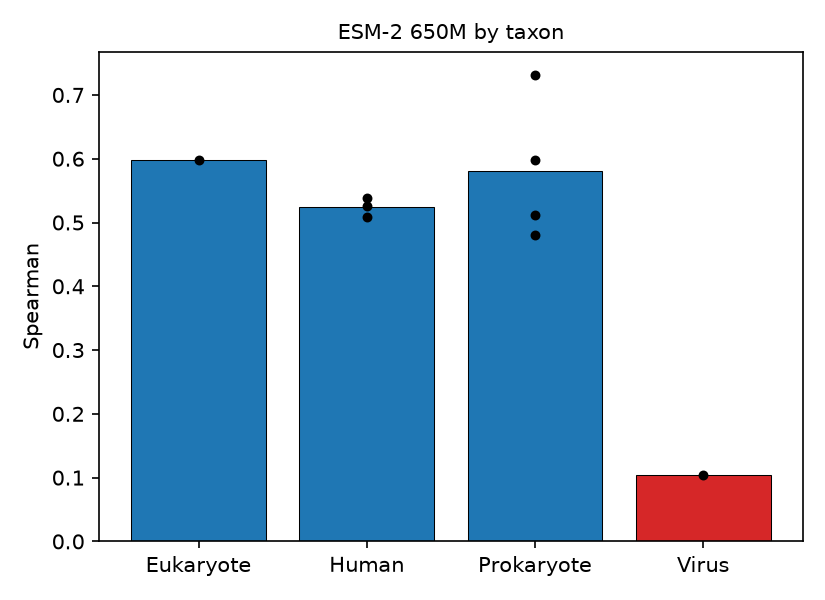
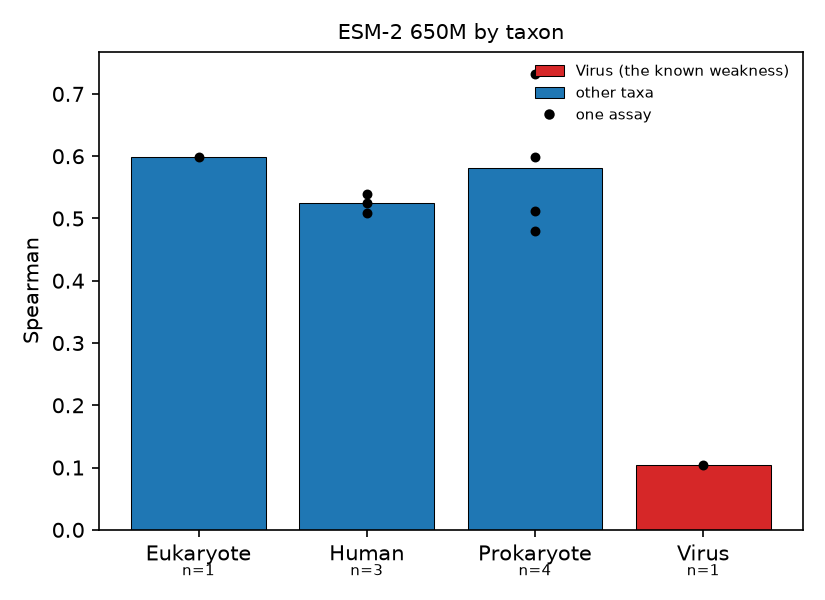
Explain the colours and the n on two benchmark figures
Vision review of all figures. Both charts used colour to carry meaning that
nothing on the page defined:

* by_taxon: the Virus bar was red with no legend, and the per-taxon n was
  invisible even though two of the four bars are a single assay - so a reader
  could not tell that 'Human' and 'Eukaryote' were one measurement each. Virus is
  now labelled as the known weakness it is, and n is printed under every bar.
* method_comparison: the red horizontal rule was each method's mean and the blue
  dots flagged ESM-2, neither explained. Both are in a legend now.

Colours unchanged; only the labels added. Figures regenerated.

diff --git a/scripts/make_figures.py b/scripts/make_figures.py
@@ -30,6 +30,7 @@ import matplotlib.pyplot as plt
 import numpy as np
 import pandas as pd
 from matplotlib.lines import Line2D
+from matplotlib.patches import Patch
 
 ROOT = Path(__file__).resolve().parent.parent
 sys.path.insert(0, str(ROOT / "src"))
@@ -64,6 +65,15 @@ def fig_method_comparison(df):
                    vals, s=26, alpha=0.75, edgecolor="black", linewidth=0.4,
                    color="C0" if method == "esm2" else "C7")
         ax.hlines(vals.mean(), i - 0.3, i + 0.3, color="C3", lw=2, zorder=5)
+
+    # Legend (2026-11-15): the red horizontal rules were the per-method mean and
+    # the blue dots flagged esm2, but neither was explained on the figure.
+    handles = [Line2D([], [], marker="o", ls="", color="C0", mec="black", mew=0.4,
+                      ms=6, label="ESM-2 650M"),
+               Line2D([], [], marker="o", ls="", color="C7", mec="black", mew=0.4,
+                      ms=6, label="baseline methods"),
+               Line2D([], [], color="C3", lw=2, label="method mean")]
+    ax.legend(handles=handles, fontsize=7.5, frameon=False, loc="upper right")
 
     ax.set_xticks(range(len(order)))
     ax.set_xticklabels(order, rotation=30, ha="right")
@@ -141,17 +151,26 @@ def fig_landscape(assay_id="IF1_ECOLI_Kelsic_2016"):
             obs[order[s.mut], s.idx] = score
 
     fig, axes = plt.subplots(2, 1, figsize=(13, 6), sharex=True)
-    for ax, mat, title, cmap in [
+    # Label honesty (2026-11-15): both colourbars were unlabelled and the y axis
+    # had no title, so a reader could not tell what the colour scale measured or
+    # that the rows are amino acids. The two panels have different units - a
+    # log-odds score in one, a fitness measurement in the other - so one label
+    # cannot serve both.
+    for ax, mat, title, cmap, cbar_label in [
             (axes[0], pred, "ESM-2 650M predicted effect (log-odds vs wildtype)",
-             "RdBu"),
-            (axes[1], obs, "Measured fitness (Kelsic 2016)", "RdBu")]:
+             "RdBu", "log-odds vs the wild-type residue"),
+            (axes[1], obs, "Measured fitness (Kelsic 2016)", "RdBu",
+             "measured DMS fitness score")]:
         v = np.nanpercentile(np.abs(mat), 98)
         im = ax.imshow(mat, aspect="auto", cmap=cmap, vmin=-v, vmax=v,
                        interpolation="nearest")
         ax.set_yticks(range(20))
         ax.set_yticklabels(aa_order, fontsize=6)
+        ax.set_ylabel("substituted amino acid", fontsize=8)
         ax.set_title(title, fontsize=9)
-        fig.colorbar(im, ax=ax, fraction=0.015, pad=0.01)
+        cb = fig.colorbar(im, ax=ax, fraction=0.015, pad=0.01)
+        cb.set_label(cbar_label, fontsize=7)
+        cb.ax.tick_params(labelsize=6)
 
     axes[1].set_xlabel("residue position")
     rho = evaluate.spearman(pred[~np.isnan(obs)], obs[~np.isnan(obs)])
@@ -171,12 +190,23 @@ def fig_by_taxon(df):
     fig, ax = plt.subplots(figsize=(5.5, 4))
     groups = esm.groupby("taxon")["spearman"]
     names = list(groups.groups)
-    ax.bar(names, [groups.get_group(n).mean() for n in names],
-           color=["C3" if n == "Virus" else "C0" for n in names],
-           edgecolor="black", linewidth=0.5)
+    # Legend (2026-11-15): the Virus bar was red with nothing saying why, and the
+    # per-taxon n was invisible even though two of the four bars are a single
+    # assay. Both are now on the figure.
+    bars = ax.bar(names, [groups.get_group(n).mean() for n in names],
+                  color=["C3" if n == "Virus" else "C0" for n in names],
+                  edgecolor="black", linewidth=0.5)
     for i, n in enumerate(names):
         vals = groups.get_group(n)
         ax.scatter(np.full(len(vals), i), vals, color="black", s=14, zorder=3)
+        ax.text(i, -0.055, f"n={len(vals)}", ha="center", va="top", fontsize=7)
+    handles = [Patch(facecolor="C3", edgecolor="black", lw=0.5,
+                     label="Virus (the known weakness)"),
+               Patch(facecolor="C0", edgecolor="black", lw=0.5,
+                     label="other taxa"),
+               Line2D([], [], marker="o", ls="", color="black", ms=4,
+                      label="one assay")]
+    ax.legend(handles=handles, fontsize=7, frameon=False, loc="upper right")
     ax.set_ylabel("Spearman")
     ax.set_title("ESM-2 650M by taxon", fontsize=10)
     fig.tight_layout()
